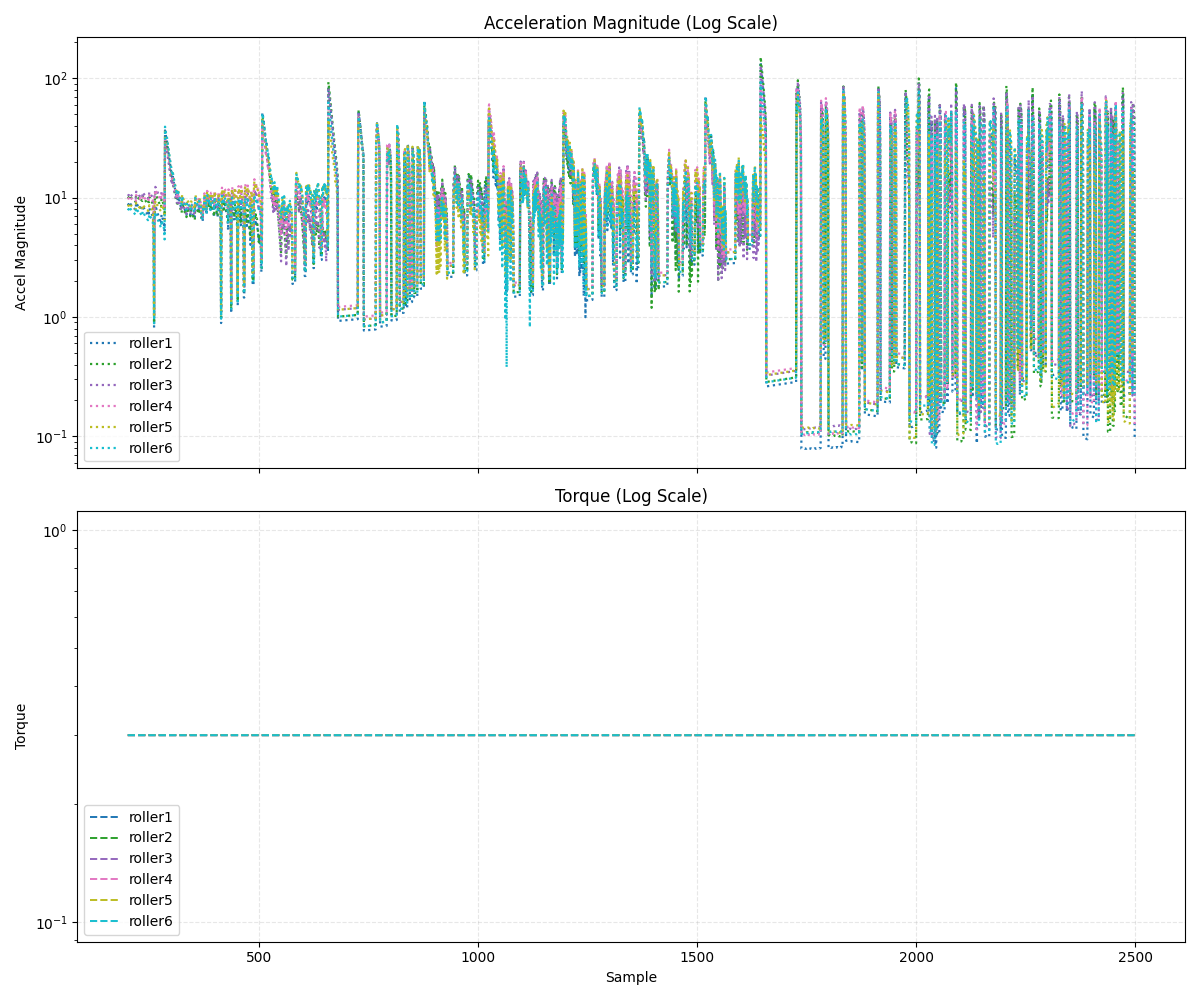
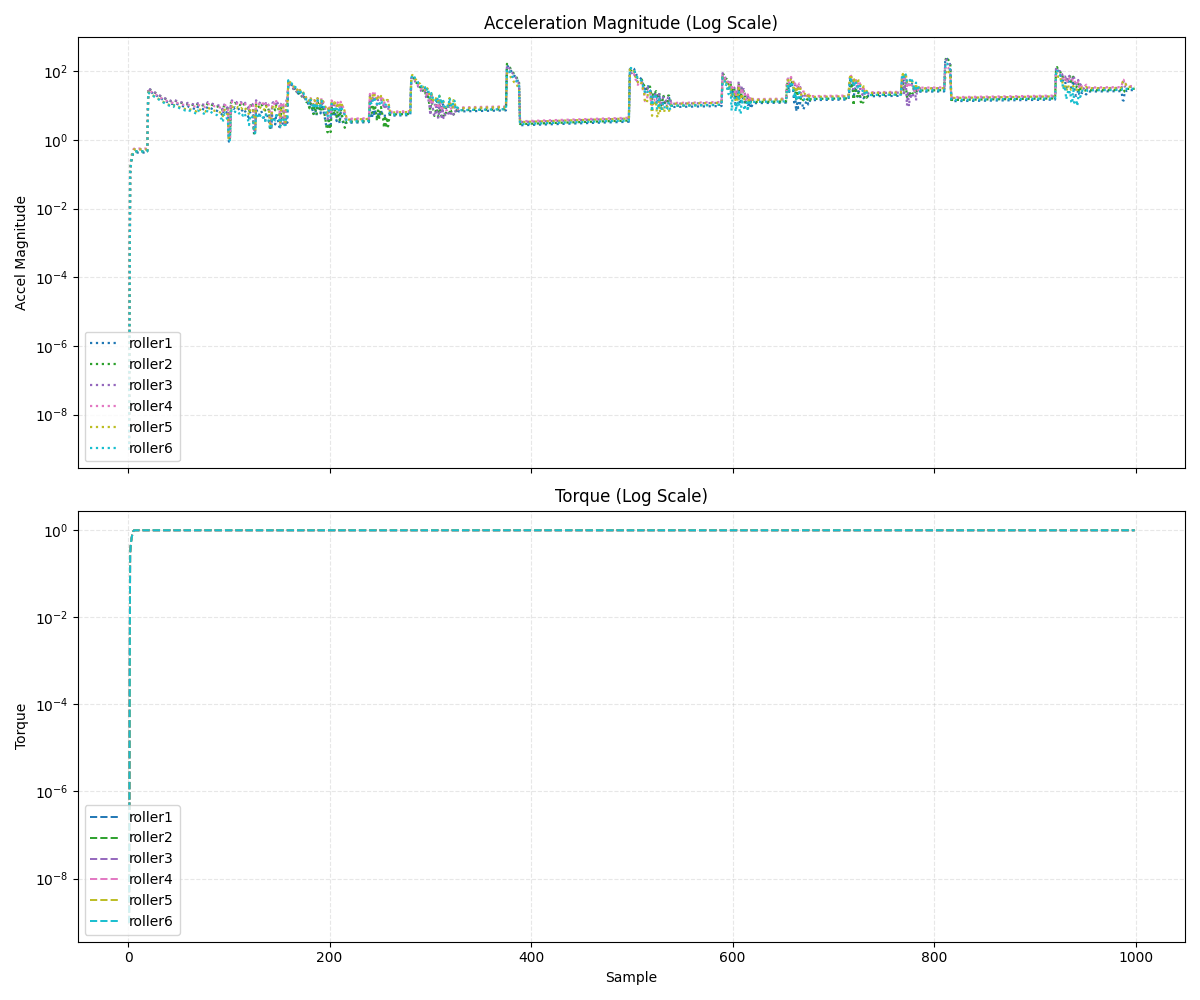
When it catches air it goes to shit

diff --git a/robot copy.py b/robot copy.py
@@ -18,8 +18,8 @@ def plot_sensor_history(torque_log, gyro_log, accel_log):
     gyro_mag, gyro_delta = {}, {}
     accel_mag, accel_delta = {}, {}
 
-    sample_start = 200
-    sample_end = 2500
+    sample_start = 0
+    sample_end = 1000
 
     def _slice(arr):
         return arr[sample_start:sample_end] if sample_end is not None else arr[sample_start:]
@@ -322,7 +322,7 @@ def roller_actuator_rotation():
                         vel = gyro_vec
                         angle = np.dot(accel, grav)
 
-                        base_speed = 50/5
+                        base_speed = 300/5
                         
 
                         speed = base_speed * command
@@ -359,7 +359,7 @@ def roller_actuator_rotation():
                     viewer.sync()
 
                 
-                    time.sleep(0.01)
+                    time.sleep(0.001)
                     pass
         finally:
             plot_sensor_history(torque_log, gyro_log, accel_log)
